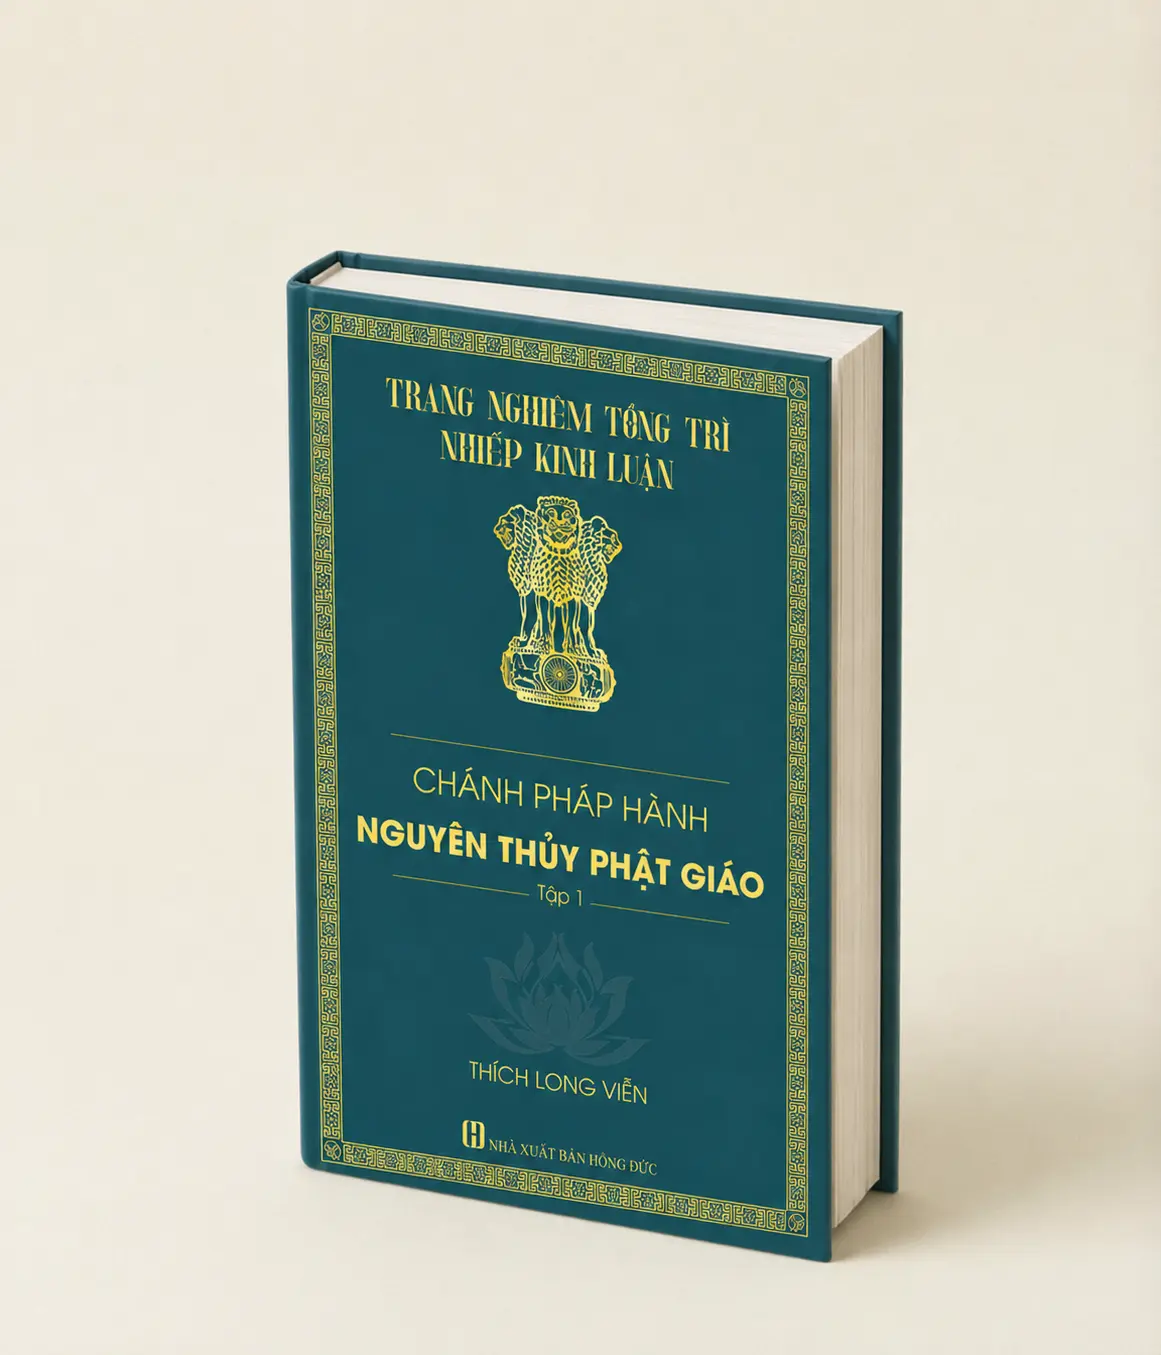
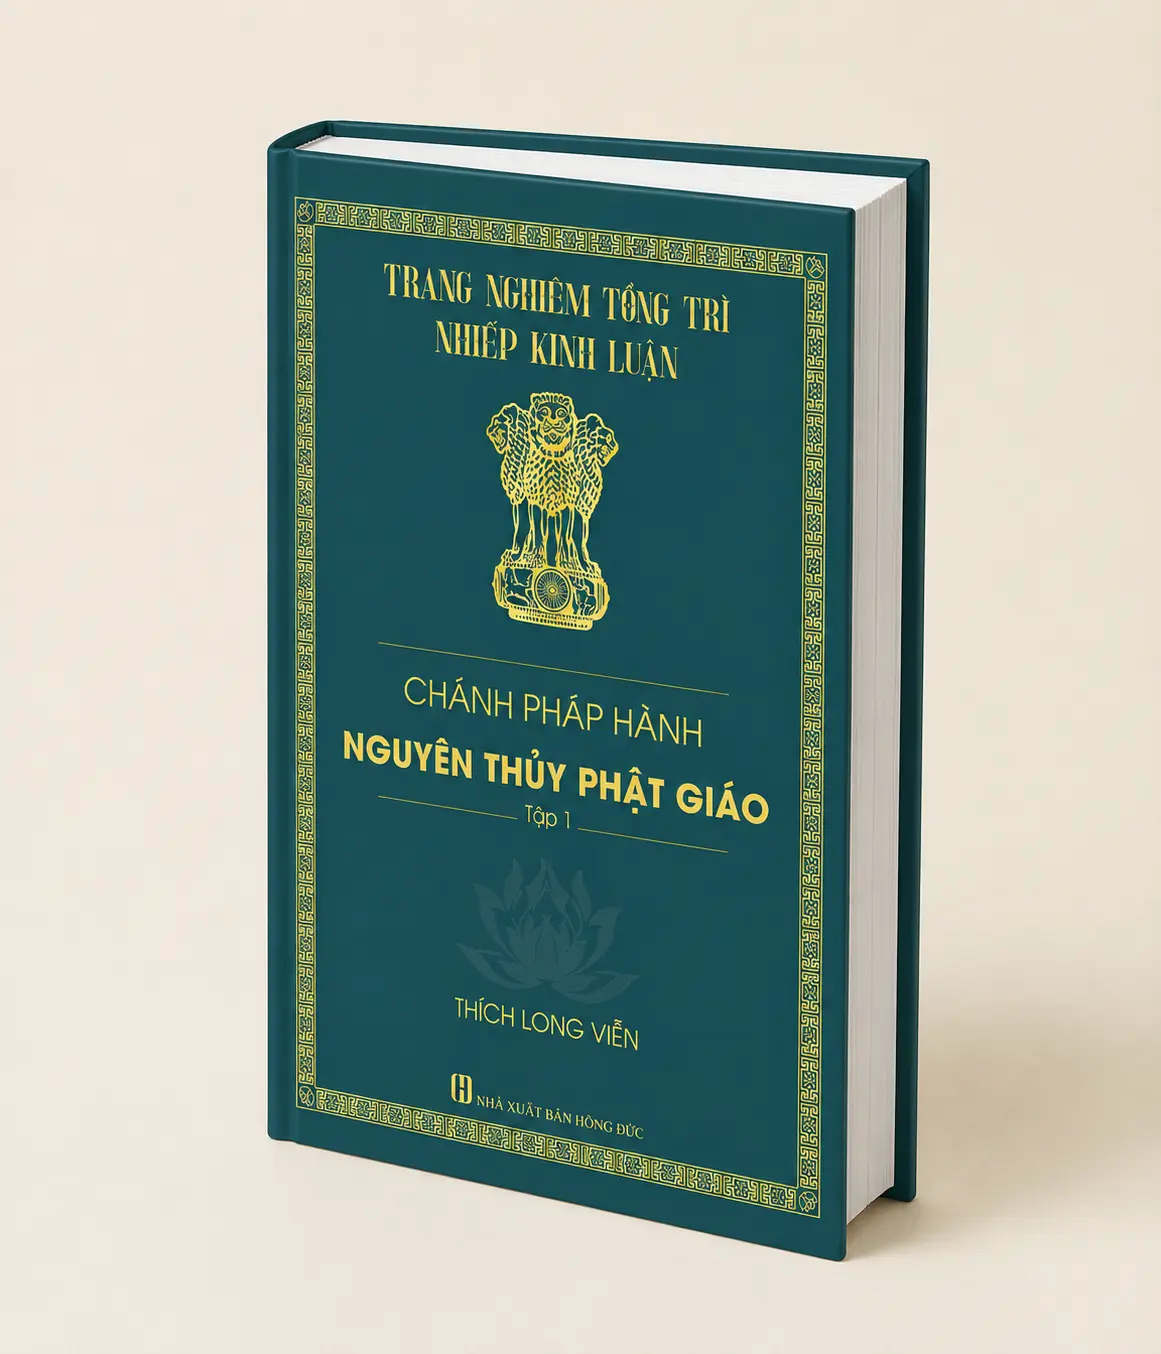
update layout

Changed region(s): [[0.2171, 0.062, 0.8062, 0.9306]]

diff --git a/src-configs/themes/default-theme/assets/sass/_main.scss b/src-configs/themes/default-theme/assets/sass/_main.scss
@@ -95,11 +95,11 @@ body {
   }
 }
 .slick-slide{
-  transition:filter 1s ease-in-out !important;
-  opacity:1 !important;
-  filter:brightness(0);
+  // transition:filter 1s ease-in-out !important;
+  // opacity:1 !important;
+  // filter:brightness(0);
   &.slick-active{
-    filter:brightness(1);
+    // filter:brightness(1);
   }
 }
 .slick-dots{

diff --git a/src-configs/themes/default-theme/templates/landing-page.php b/src-configs/themes/default-theme/templates/landing-page.php
@@ -154,22 +154,24 @@ get_header(); ?>
     </div>
 </section>
 
-<section id="featured-book" class="bg-cream relative flex">
-    <div id="featured-book-slider" class="
+<section id="featured-book" class="bg-cream relative overflow-x-auto">
+    <div id="featured-book-slider" class="overflow-x-hidden
         before:absolute before:z-10 before:inset-y-0 before:right-0 before:w-32 before:bg-gradient-to-r before:from-transparent before:to-[#0d0a08]
         after:absolute after:z-10 after:inset-x-0 after:bottom-0 after:h-24 after:bg-gradient-to-t after:from-[#0d0a08]/60 after:to-transparent">
-        <?php for($i = 1; $i <= 5; $i++): ?>
-        <div class="slide">
-            <?php 
-            render_img_by_src(IMG_URL . "slide-ngoc-le-bi-tam-{$i}.jpg", [
-                'alt' => "Ngọc Lệ Bi Tâm slide {$i}",
-                'class' => 'max-h-screen w-full',
-            ]);
-            ?>
+        <div class="h-scroll flex flex-nowrap">
+            <?php for($i = 1; $i <= 5; $i++): ?>
+            <div class="slide flex-none">
+                <?php 
+                render_img_by_src(IMG_URL . "slide-ngoc-le-bi-tam-{$i}.jpg", [
+                    'alt' => "Ngọc Lệ Bi Tâm slide {$i}",
+                    'class' => 'max-h-screen w-full',
+                ]);
+                ?>
+            </div>
+            <?php endfor; ?>
         </div>
-        <?php endfor; ?>
     </div>
-    <div class="wysiwyg bg-[#0d0a08] text-white p-8 h-screen w-[500px] px-14 absolute top-0 right-0">
+    <div class="wysiwyg bg-[#0d0a08] text-white p-8 h-screen w-[500px] px-14 absolute top-0 right-0 hidden">
         <div class="scrolling">
             <p>Có những cuộc hành trình về nguồn cội không cần bước chân, chính từ ngay mỗi trang sách, mỗi câu chuyện, mỗi lời khai thị, thi kệ và mỗi hình ảnh mà tâm hồn chúng ta được dẫn lối bước vào cõi phiêu nhiên tịch tĩnh - an lạc đời đời... Chúng tôi muốn đề cập đến tác phẩm Ngọc Lệ Bi Tâm - Quán Thế Âm - một Pháp bảo trân quý mà Tôn Sư để lại cho hàng hậu học. Quyển sách này như Phật Đảnh Liên Hoa, soi sáng và phá tan xích xiềng sanh tử u minh, nâng bước chân ta vượt ngang Tam Giới, đốn chứng Niết Bàn Diệu Tâm, liễu ngộ Thật Tướng Vô Tướng, chấn nhiếp Tứ Ma, xuất ngục Ấm Giới, nhanh chóng thành tựu cứu cánh Phạm Hạnh, viên mãn Đại Bồ Đề.
     Ngọc Lệ Bi Tâm - Quán Thế Âm tựa như bàn tay ấm áp của Mẹ hiền Quán Thế Âm, lệ Ngài rơi vào biển luân hồi hóa thành Huyết Ngọc Đại Bi: Ôm ấp và xoa dịu những khổ đau, vỗ về những trái tim mang nặng ưu tư, dìu dắt từng bước chân đang mỏi mệt trên hành trình gian nan tìm về bến bờ an yên tĩnh lặng.</p>
@@ -218,7 +220,7 @@ get_header(); ?>
                         <span class="text-main font-bold"><?php echo $book['price']?> đ</span>
                     </div>
                     <?php load_partial('html/btn-dark-green', [
-                        'label' => 'Mua ngay',
+                        'label' => 'Đặt sách',
                         'url' => $book['order_url'],
                         'target' => '_blank',
                         'class' => 'text-sm block px-[20px]'